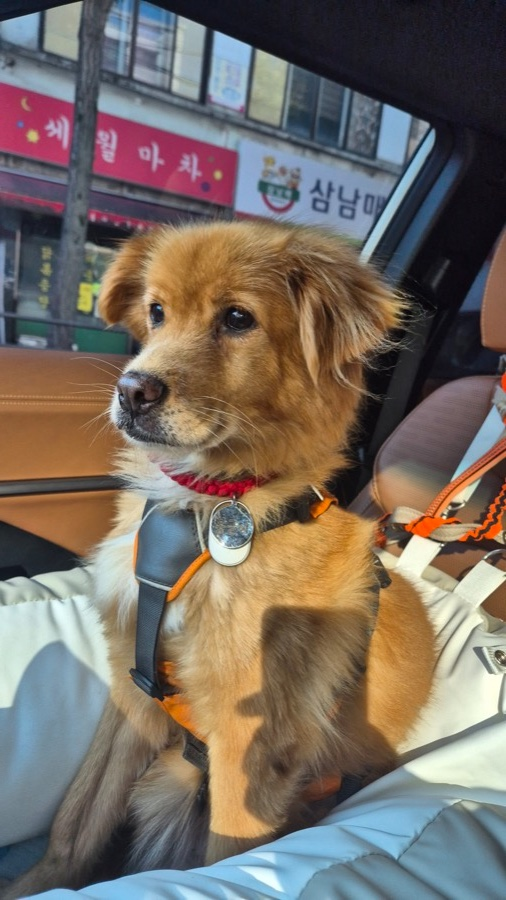
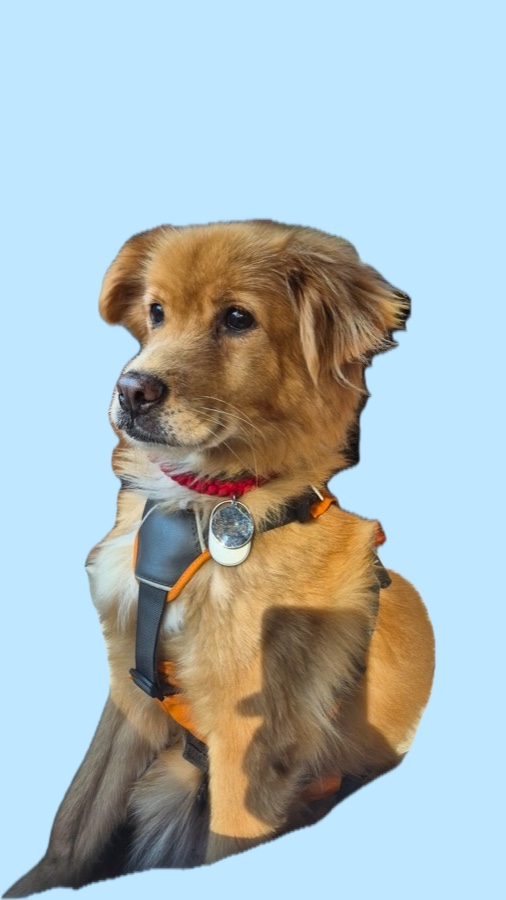
동네 마실 단짝형 면허증 사진 배경 제거

diff --git a/index.html b/index.html
@@ -492,7 +492,7 @@ const TYPES = {
   w:{name:"산책 메이트형", img:"img/lic-walk.jpg", pos:"center 20%", alt:"산책길 계단에서 정면을 바라보는 봉군이",
      desc:"봉군이의 공식 산책 메이트로 임명되셨습니다. 봉군이 덕분에 임보자는 한 달 연속 걸음 수 상위 2%를 찍었어요. 운동화는 넉넉히 준비해 주세요.",
      fact:"산책 만렙이지만 인적 드문 한적한 길을 좋아해요. 봉군이는 쫄보거든요..."},
-  n:{name:"동네 마실 단짝형", img:"img/lic-town.jpg", pos:"center 25%", alt:"차 안에서 하네스를 하고 창밖을 보는 봉군이",
+  n:{name:"동네 마실 단짝형", img:"img/lic-town.jpg", pos:"center 25%", alt:"하늘색 배경 앞에서 하네스를 하고 옆을 보는 봉군이",
      desc:"봉군이의 마실 단짝으로 선정되셨습니다. 봉군이는 차도 얌전히 잘 타고 동네 분들께 인사도 잘 해요. 조수석은 아마 봉군이 자리가 될 거예요.",
      fact:"차를 잘 타요"},
   s:{name:"소파 동지형", img:"img/lic-sofa.jpg", pos:"center 50%", alt:"베개에 얼굴을 묻고 쉬는 봉군이",
